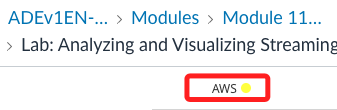
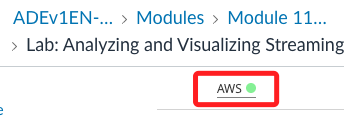
Commit on 2024-10-05 16:08:21

diff --git a/01_課程筆記/00_Lab/95432/Lab11_Analyzing and Visualizing Streaming Data with Kinesis Data Firehose, OpenSearch Service, and OpenSearch Dashboards/01_Task 1.md b/01_課程筆記/00_Lab/95432/Lab11_Analyzing and Visualizing Streaming Data with Kinesis Data Firehose, OpenSearch Service, and OpenSearch Dashboards/01_Task 1.md
@@ -6,7 +6,7 @@ _簡單回顧 EC2_
 
 ## 檢查 EC2
 
-1. 這個 Lab 有點奇怪，在登入頁面中的 `AWS` 會始終保持在黃色狀態；點擊 `AWS` 進入 Lab 環境。
+1. 這個 Lab 啟動相當耗時，務必確保登入頁面中的 `AWS` 呈現綠色再進入 Lab 環境。
 
     ![](images/img_21.png)
 
@@ -18,20 +18,25 @@ _簡單回顧 EC2_
 
 <br>
 
-
-3. 啟動完成會顯示運行中的實例數量，點擊 `Instances(running)` 進入。
+3. 過一陣子會先顯示 `1`，這時會啟動一個名稱前綴 `aws-cloud9-Cloud9` 的實例，請繼續等候。
 
     ![](images/img_01.png)
 
 <br>
 
-1. 看到其中名為 `OpenSearch Demo` 的實例，點擊其 ID 進入。
+4. 完全啟動後會顯示 `2` 個運行中的實例，點擊 `Instances(running)` 進入。
+
+    ![](images/img_22.png)
+
+<br>
+
+5. 點擊其中名為 `OpenSearch Demo` 的 ID 進入。
 
     ![](images/img_02.png)
 
 <br>
 
-3. 複製這個實例的 `Public IPv4 address` 備用。
+6. 複製這個實例的 `Public IPv4 address` 備用。
 
     ![](images/img_06.png)
 
